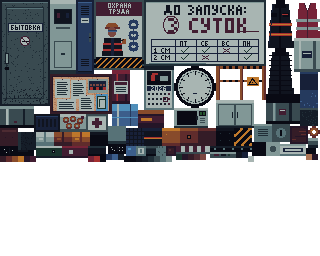
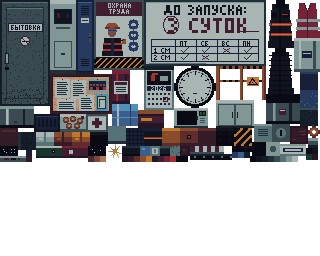
Общага и бытовка: «График дежурств» и номер 214 читаются с места, у роботов по мешу на звено и искры сварки

Changed region(s): [[0.2812, 0.5625, 1.0, 0.6562], [0.0, 0.5625, 0.125, 0.6562]]

diff --git a/src/game/world3d/rooms/dorm.gen.ts b/src/game/world3d/rooms/dorm.gen.ts
@@ -1,6 +1,6 @@
 // Сгенерировано tools/art/room_dorm.py — не править руками.
 // Раскладка атласа (x, y, w, h в текселях) и места вещей, по которым запечены тени.
 
-export const ATLAS = {"w": 320, "h": 256, "rects": {"door_d": [1, 1, 48, 104], "wardrobe": [51, 1, 44, 82], "wardrobe_side": [97, 1, 24, 82], "rug": [123, 1, 84, 64], "books": [209, 1, 40, 64], "guitar": [251, 1, 22, 64], "curtain": [275, 1, 16, 64], "poster_band": [123, 67, 42, 60], "schedule": [167, 67, 44, 58], "gaming": [213, 67, 32, 56], "coat": [293, 1, 26, 50], "parka": [247, 67, 28, 48], "tulle": [293, 53, 24, 48], "calendar_d": [51, 85, 28, 44], "fridge": [81, 85, 26, 44], "tv": [247, 117, 64, 40], "clock": [1, 107, 40, 40], "hoodie": [213, 125, 24, 40], "suitcase": [167, 127, 24, 36], "suitcase_side": [109, 85, 12, 36], "mirror": [109, 129, 20, 26], "towel": [193, 127, 14, 26], "scarf_end": [131, 129, 10, 26], "mattress": [43, 131, 32, 24], "kettle_side": [1, 149, 32, 24], "plaid": [77, 131, 24, 24], "gaming_seat": [35, 157, 24, 24], "sugar": [143, 129, 16, 24], "sugar_side": [143, 155, 8, 24], "radiator": [61, 157, 40, 22], "dishes": [239, 159, 48, 20], "console_top": [103, 157, 28, 20], "chelnok": [289, 159, 24, 20], "kbox": [153, 165, 20, 20], "kbox_side": [175, 165, 20, 20], "sink_top": [197, 167, 24, 18], "scarf": [1, 183, 100, 16], "socks": [103, 181, 44, 16], "bag": [223, 181, 32, 16], "speaker": [257, 181, 28, 16], "laptop_scr": [287, 181, 24, 16], "laptop_lid": [149, 187, 24, 16], "laptop_kb": [175, 187, 24, 16], "blanket": [103, 199, 24, 16], "kbox_top": [201, 187, 20, 16], "fridge_side": [129, 199, 16, 16], "fridge_top": [223, 199, 16, 16], "wood_l": [241, 199, 16, 16], "wood_d": [259, 199, 16, 16], "sheet": [277, 199, 16, 16], "laminate": [295, 199, 16, 16], "stool_top": [1, 201, 16, 16], "chair_seat": [19, 201, 16, 16], "kettle_top": [37, 201, 16, 16], "noodle_top": [55, 201, 16, 16], "cactus": [73, 201, 12, 16], "chelnok_top": [147, 205, 24, 14], "bag_top": [173, 205, 32, 12], "noodle_side": [87, 217, 32, 12], "abajur": [207, 217, 32, 12], "chair_back": [121, 217, 24, 12], "pad_top": [241, 217, 24, 12], "bucket": [267, 217, 20, 12], "pillow": [289, 217, 20, 12], "pillow_bare": [1, 219, 20, 12], "noodle_lid": [23, 219, 12, 12], "sink_front": [37, 219, 24, 10], "mug_a": [173, 219, 24, 10], "mug_b": [147, 221, 24, 10], "sneakers": [37, 231, 24, 8], "blanket_side": [63, 231, 24, 8], "num214": [89, 231, 16, 8], "sugar_top": [107, 231, 16, 8], "pot_s": [125, 231, 12, 8], "chrome": [311, 217, 8, 8], "wframe": [311, 227, 8, 8], "sill": [173, 231, 8, 8], "jamb": [183, 231, 8, 8], "switch": [193, 231, 8, 8], "socket": [203, 231, 8, 8], "bedmetal": [213, 231, 8, 8], "tea_top": [223, 231, 8, 8], "teabag": [233, 231, 8, 8], "mattress_side": [243, 231, 32, 6], "console": [277, 231, 28, 6], "hooks": [243, 239, 40, 4], "tedge": [1, 233, 32, 4], "kettle_base": [139, 233, 32, 4], "clock_rim": [307, 237, 8, 4], "c0": [1, 239, 4, 4], "c1": [7, 239, 4, 4], "c2": [13, 239, 4, 4], "c3": [19, 239, 4, 4], "c4": [25, 239, 4, 4], "c5": [31, 239, 4, 4], "c8": [139, 239, 4, 4], "c12": [145, 239, 4, 4], "c13": [151, 239, 4, 4], "c14": [157, 239, 4, 4], "c15": [163, 239, 4, 4], "c16": [285, 239, 4, 4], "c17": [291, 239, 4, 4], "c18": [297, 239, 4, 4], "c19": [37, 241, 4, 4], "c20": [43, 241, 4, 4], "c21": [49, 241, 4, 4], "c22": [55, 241, 4, 4], "c23": [61, 241, 4, 4], "c25": [67, 241, 4, 4], "c26": [73, 241, 4, 4], "c27": [79, 241, 4, 4], "c36": [85, 241, 4, 4], "c37": [91, 241, 4, 4], "c38": [97, 241, 4, 4], "c39": [103, 241, 4, 4], "c40": [109, 241, 4, 4], "c41": [115, 241, 4, 4], "c42": [121, 241, 4, 4], "c43": [127, 241, 4, 4], "c44": [133, 241, 4, 4], "c45": [169, 241, 4, 4]}} as const
+export const ATLAS = {"w": 320, "h": 288, "rects": {"door_d": [1, 1, 48, 104], "schedule": [51, 1, 72, 92], "wardrobe": [125, 1, 44, 82], "wardrobe_side": [171, 1, 24, 82], "rug": [197, 1, 84, 64], "books": [197, 67, 40, 64], "guitar": [283, 1, 22, 64], "curtain": [239, 67, 16, 64], "poster_band": [257, 67, 42, 60], "gaming": [125, 85, 32, 56], "coat": [159, 85, 26, 50], "parka": [51, 95, 28, 48], "tulle": [81, 95, 24, 48], "calendar_d": [1, 107, 28, 44], "fridge": [257, 129, 26, 44], "tv": [187, 133, 64, 40], "clock": [107, 143, 40, 40], "hoodie": [285, 129, 24, 40], "suitcase": [159, 137, 24, 36], "suitcase_side": [31, 107, 12, 36], "mirror": [31, 145, 20, 26], "towel": [53, 145, 14, 26], "scarf_end": [69, 145, 10, 26], "mattress": [285, 171, 32, 24], "kettle_side": [1, 173, 32, 24], "plaid": [81, 145, 24, 24], "gaming_seat": [81, 171, 24, 24], "sugar": [35, 173, 16, 24], "sugar_side": [149, 143, 8, 24], "radiator": [149, 175, 40, 22], "dishes": [191, 175, 48, 20], "console_top": [241, 175, 28, 20], "chelnok": [53, 173, 24, 20], "kbox": [107, 185, 20, 20], "kbox_side": [53, 195, 20, 20], "sink_top": [75, 197, 24, 18], "scarf": [191, 197, 100, 16], "socks": [1, 199, 44, 16], "bag": [129, 199, 32, 16], "speaker": [163, 215, 28, 16], "laptop_scr": [293, 197, 24, 16], "laptop_lid": [101, 207, 24, 16], "laptop_kb": [193, 215, 24, 16], "blanket": [219, 215, 24, 16], "kbox_top": [245, 215, 20, 16], "fridge_side": [267, 215, 16, 16], "fridge_top": [285, 215, 16, 16], "wood_l": [303, 215, 16, 16], "wood_d": [1, 217, 16, 16], "sheet": [19, 217, 16, 16], "laminate": [37, 217, 16, 16], "stool_top": [55, 217, 16, 16], "chair_seat": [73, 217, 16, 16], "kettle_top": [127, 217, 16, 16], "noodle_top": [145, 217, 16, 16], "cactus": [91, 225, 12, 16], "num214": [163, 233, 26, 14], "chelnok_top": [191, 233, 24, 14], "bag_top": [217, 233, 32, 12], "noodle_side": [251, 233, 32, 12], "abajur": [285, 233, 32, 12], "chair_back": [1, 235, 24, 12], "pad_top": [27, 235, 24, 12], "bucket": [105, 225, 20, 12], "pillow": [53, 235, 20, 12], "pillow_bare": [127, 235, 20, 12], "noodle_lid": [75, 235, 12, 12], "sink_front": [89, 243, 24, 10], "mug_a": [217, 247, 24, 10], "mug_b": [243, 247, 24, 10], "sneakers": [269, 247, 24, 8], "blanket_side": [295, 247, 24, 8], "sugar_top": [1, 249, 16, 8], "pot_s": [149, 235, 12, 8], "chrome": [115, 239, 8, 8], "wframe": [149, 245, 8, 8], "sill": [19, 249, 8, 8], "jamb": [29, 249, 8, 8], "switch": [39, 249, 8, 8], "socket": [49, 249, 8, 8], "bedmetal": [59, 249, 8, 8], "tea_top": [69, 249, 8, 8], "teabag": [79, 249, 8, 8], "mattress_side": [115, 249, 32, 6], "console": [159, 249, 28, 6], "hooks": [89, 257, 40, 4], "tedge": [131, 257, 32, 4], "kettle_base": [165, 257, 32, 4], "clock_rim": [199, 249, 8, 4], "c0": [209, 249, 4, 4], "c1": [199, 255, 4, 4], "c2": [205, 255, 4, 4], "c3": [211, 255, 4, 4], "c4": [269, 257, 4, 4], "c5": [275, 257, 4, 4], "c8": [281, 257, 4, 4], "c12": [287, 257, 4, 4], "c13": [293, 257, 4, 4], "c14": [299, 257, 4, 4], "c15": [305, 257, 4, 4], "c16": [311, 257, 4, 4], "c17": [1, 259, 4, 4], "c18": [7, 259, 4, 4], "c19": [13, 259, 4, 4], "c20": [19, 259, 4, 4], "c21": [25, 259, 4, 4], "c22": [31, 259, 4, 4], "c23": [37, 259, 4, 4], "c25": [43, 259, 4, 4], "c26": [49, 259, 4, 4], "c27": [55, 259, 4, 4], "c36": [61, 259, 4, 4], "c37": [67, 259, 4, 4], "c38": [73, 259, 4, 4], "c39": [79, 259, 4, 4], "c40": [217, 259, 4, 4], "c41": [223, 259, 4, 4], "c42": [229, 259, 4, 4], "c43": [235, 259, 4, 4], "c44": [241, 259, 4, 4], "c45": [247, 259, 4, 4]}} as const
 
 export const PLACE = {"window": [-1.55, -0.45, 0.92, 2.3], "radiator": [-1.38, -0.62, 0.22, 0.72], "fridge": [-2.3, -1.78, 0.84, 0.56], "shelfTV": [-2.32, -1.76, 1.74], "wardrobe": [1.2, 2.3, 2.05, 0.58], "poster": [0.68, 1.76], "bedL": [-3.17, -2.37, -2.64, -0.76], "bedR": [2.37, 3.17, -2.64, -0.76], "rug": [-2.58, -0.9, 0.98, 2.22], "guitar": [-3.0, -0.04], "hooks": [0.28, 1.02, 1.74], "door": [1.32, 2.2, 2.05], "calendar": [-2.45, 1.55], "shelf": [0.05, 0.83, 1.28, 0.3], "sink": [1.5, 0.84], "dishes": [2.3, 1.62], "lamp": [0.0, -0.45], "kettle": [0.47, -0.76], "noodles": [-0.49, -0.77], "pad": [-0.7, -0.38, 0.5], "mug1": [0.72, -0.4], "mug2": [-1.32, -0.14], "sugar": [0.86, -0.58, 0.3], "teabags": [0.66, -0.2], "suitcase": [2.08, -1.9], "garland": [-1.78, -0.22, 2.36], "view": {"near": [-2.8, -0.2, 0.3, 3.3, -4.3], "far": [-3.9, -0.3, 0.0, 4.1, -6.4], "beacon": [-2.3, 1.74, -6.38]}, "lampY": 2.34} as const

diff --git a/src/game/world3d/rooms/bytovka.gen.ts b/src/game/world3d/rooms/bytovka.gen.ts
@@ -1,6 +1,6 @@
 // Сгенерировано tools/art/room_bytovka.py — не править руками.
 // Раскладка атласа (x, y, w, h в текселях) и места вещей, по которым запечены тени.
 
-export const ATLAS = {"w": 320, "h": 256, "rects": {"door_m": [1, 1, 48, 104], "cooler": [51, 1, 24, 72], "locker": [77, 1, 16, 72], "poster_ot": [95, 1, 48, 68], "board": [145, 1, 120, 64], "spets": [267, 1, 26, 46], "vatnik": [267, 49, 26, 44], "calendar_b": [145, 67, 28, 42], "clock": [175, 67, 40, 40], "stand": [51, 75, 60, 38], "vest": [295, 1, 24, 36], "fence": [217, 67, 48, 32], "tank": [295, 39, 24, 32], "ext": [113, 71, 16, 32], "thermos": [267, 95, 32, 28], "counter": [217, 101, 36, 26], "kettle_s": [1, 107, 32, 20], "bottle": [113, 105, 24, 20], "mw": [175, 109, 32, 18], "coffee_jar": [139, 111, 24, 16], "crate": [35, 115, 24, 16], "sushki": [61, 115, 24, 16], "aptechka": [87, 115, 20, 16], "locker_side": [301, 73, 16, 16], "locker_top": [301, 91, 16, 16], "counter_top": [301, 109, 16, 16], "mw_side": [255, 125, 16, 16], "kettle_s_top": [273, 125, 16, 16], "cooler_side": [109, 127, 16, 16], "ply": [291, 127, 16, 16], "derm": [1, 129, 16, 16], "crate_top": [127, 129, 16, 16], "folded": [145, 129, 16, 16], "rob": [163, 129, 16, 16], "rob_side": [181, 129, 16, 16], "rob_dark": [199, 129, 16, 16], "rob_joint": [217, 129, 16, 16], "hazard": [235, 129, 16, 16], "column": [19, 133, 16, 16], "hat_w": [37, 133, 16, 12], "hat_o": [55, 133, 16, 12], "hat_y": [73, 133, 16, 12], "bin": [91, 133, 16, 12], "thermos_top": [253, 143, 12, 12], "tank_top": [267, 143, 12, 12], "mug_v": [281, 145, 24, 10], "mug_g": [37, 147, 24, 10], "mug_r": [63, 147, 24, 10], "sushka": [309, 127, 10, 10], "dom_top": [109, 145, 16, 8], "dom_top2": [1, 147, 16, 8], "rail": [89, 147, 16, 8], "chrome": [309, 139, 8, 8], "water_top": [127, 147, 8, 8], "switch": [137, 147, 8, 8], "alu": [147, 147, 8, 8], "plaster": [157, 147, 8, 8], "coffee_top": [167, 147, 8, 8], "oil_edge": [177, 147, 32, 6], "hooks": [211, 147, 40, 4], "tray": [211, 153, 24, 4], "clock_rim": [307, 149, 8, 4], "dom_side": [19, 151, 8, 4], "c0": [29, 151, 4, 4], "c1": [237, 153, 4, 4], "c2": [243, 153, 4, 4], "c3": [107, 155, 4, 4], "c4": [113, 155, 4, 4], "c7": [119, 155, 4, 4], "c8": [177, 155, 4, 4], "c12": [183, 155, 4, 4], "c13": [189, 155, 4, 4], "c14": [195, 155, 4, 4], "c15": [201, 155, 4, 4], "c16": [307, 155, 4, 4], "c19": [313, 155, 4, 4], "c20": [1, 157, 4, 4], "c21": [7, 157, 4, 4], "c22": [13, 157, 4, 4], "c23": [19, 157, 4, 4], "c26": [25, 157, 4, 4], "c27": [31, 157, 4, 4], "c28": [89, 157, 4, 4], "c29": [95, 157, 4, 4], "c36": [101, 157, 4, 4], "c37": [125, 157, 4, 4], "c38": [131, 157, 4, 4], "c39": [137, 157, 4, 4], "c40": [143, 157, 4, 4], "c41": [149, 157, 4, 4], "c42": [155, 157, 4, 4], "c43": [161, 157, 4, 4], "c44": [167, 157, 4, 4], "c45": [249, 157, 4, 4]}} as const
+export const ATLAS = {"w": 320, "h": 256, "rects": {"door_m": [1, 1, 48, 104], "cooler": [51, 1, 24, 72], "locker": [77, 1, 16, 72], "poster_ot": [95, 1, 48, 68], "board": [145, 1, 120, 64], "spets": [267, 1, 26, 46], "vatnik": [267, 49, 26, 44], "calendar_b": [145, 67, 28, 42], "clock": [175, 67, 40, 40], "stand": [51, 75, 60, 38], "vest": [295, 1, 24, 36], "fence": [217, 67, 48, 32], "tank": [295, 39, 24, 32], "ext": [113, 71, 16, 32], "thermos": [267, 95, 32, 28], "counter": [217, 101, 36, 26], "kettle_s": [1, 107, 32, 20], "bottle": [113, 105, 24, 20], "mw": [175, 109, 32, 18], "coffee_jar": [139, 111, 24, 16], "crate": [35, 115, 24, 16], "sushki": [61, 115, 24, 16], "aptechka": [87, 115, 20, 16], "locker_side": [301, 73, 16, 16], "locker_top": [301, 91, 16, 16], "counter_top": [301, 109, 16, 16], "mw_side": [255, 125, 16, 16], "kettle_s_top": [273, 125, 16, 16], "cooler_side": [109, 127, 16, 16], "ply": [291, 127, 16, 16], "derm": [1, 129, 16, 16], "crate_top": [127, 129, 16, 16], "folded": [145, 129, 16, 16], "rob": [163, 129, 16, 16], "rob_side": [181, 129, 16, 16], "rob_dark": [199, 129, 16, 16], "rob_joint": [217, 129, 16, 16], "hazard": [235, 129, 16, 16], "column": [19, 133, 16, 16], "hat_w": [37, 133, 16, 12], "hat_o": [55, 133, 16, 12], "hat_y": [73, 133, 16, 12], "bin": [91, 133, 16, 12], "thermos_top": [253, 143, 12, 12], "tank_top": [267, 143, 12, 12], "spark": [109, 145, 12, 12], "mug_v": [281, 145, 24, 10], "mug_g": [37, 147, 24, 10], "mug_r": [63, 147, 24, 10], "sushka": [309, 127, 10, 10], "dom_top": [1, 147, 16, 8], "dom_top2": [89, 147, 16, 8], "rail": [123, 147, 16, 8], "chrome": [309, 139, 8, 8], "water_top": [141, 147, 8, 8], "switch": [151, 147, 8, 8], "alu": [161, 147, 8, 8], "plaster": [171, 147, 8, 8], "coffee_top": [181, 147, 8, 8], "oil_edge": [191, 147, 32, 6], "hooks": [191, 155, 40, 4], "tray": [1, 157, 24, 4], "clock_rim": [233, 147, 8, 4], "dom_side": [243, 147, 8, 4], "c0": [307, 149, 4, 4], "c1": [313, 149, 4, 4], "c2": [27, 151, 4, 4], "c3": [233, 153, 4, 4], "c4": [239, 153, 4, 4], "c7": [245, 153, 4, 4], "c8": [307, 155, 4, 4], "c12": [313, 155, 4, 4], "c13": [27, 157, 4, 4], "c14": [89, 157, 4, 4], "c15": [95, 157, 4, 4], "c16": [101, 157, 4, 4], "c19": [123, 157, 4, 4], "c20": [129, 157, 4, 4], "c21": [135, 157, 4, 4], "c22": [141, 157, 4, 4], "c23": [147, 157, 4, 4], "c26": [153, 157, 4, 4], "c27": [159, 157, 4, 4], "c28": [165, 157, 4, 4], "c29": [171, 157, 4, 4], "c36": [177, 157, 4, 4], "c37": [183, 157, 4, 4], "c38": [251, 157, 4, 4], "c39": [257, 157, 4, 4], "c40": [263, 157, 4, 4], "c41": [269, 157, 4, 4], "c42": [275, 157, 4, 4], "c43": [281, 157, 4, 4], "c44": [287, 157, 4, 4], "c45": [293, 157, 4, 4]}} as const
 
 export const PLACE = {"window": [-2.75, -0.3, 0.9, 2.5], "board": [0.4, 1.9, 1.34, 2.14], "lockers": [-2.62, -0.72, 1.8, 0.5], "counter": [-2.62, -1.5, 0.86, 0.56], "poster": [-0.62, 1.55], "hooks": [0.05, 0.85, 1.75], "door": [1.2, 2.1, 2.05], "extinguisher": [-2.98, 0.95], "stand": [0.25, 1.45, 1.1, 1.85], "aptechka": [2.3, 1.55], "cooler": [1.62, 1.22], "calendar": [-2.2, 1.6], "lamps": [[-1.3, -1.35], [1.3, -1.35], [-1.3, 0.85], [1.3, 0.85]], "thermos": [0.47, -0.76], "domino": [-0.72, -0.36], "bazaar": [-1.2, -0.06], "sushki": [0.74, -0.4], "mugs": [[-0.48, -0.78], [0.84, -0.18], [-1.22, -0.36], [1.18, -0.56]], "hats": [[-1.36, -0.74, 0.3, "hat_w"], [1.37, -0.3, -0.5, "hat_o"], [1.3, -0.8, 1.2, "hat_w"]], "robots": [[-3.4, -7.4, 0.25], [-1.75, -6.2, 2.9]], "hall": {"wall": [-11.5, -0.5, -0.5, 6.5, -13.5], "racks": [-10.4, -5.6, 0.0, 4.6, -11.2], "banner": [-7.9, -4.6, 3.2, 3.85, -9.4], "crane": [-11.0, 0.5, 4.1, -10.0], "pallets": [-2.0, -0.85, 0.0, 1.9, -9.0], "fence": [-5.6, -0.2, 0.0, 1.35, -5.3], "column": [-5.7, -6.6], "conveyor": [-9.0, 1.0, 2.35, -6.6]}} as const

diff --git a/src/game/world3d/rooms/bytovka.ts b/src/game/world3d/rooms/bytovka.ts
@@ -89,8 +89,11 @@ function buildBytovka(): RoomBuild {
 
   // роботы: пьедестал в супе, звенья — на осях (поворот, плечо, локоть)
   const maps = [0, 1, 2].map((k) => kit.mat(kit.tex(`bytovka_atlas${k}`), true))
+  /** движущаяся часть: свой суп, один вариант света (объём — текстурами граней), один меш */
   const part = (fill: (s: Soup) => void) => {
     const s = new Soup(ATLAS.w, ATLAS.h, rects)
+    const add = s.add.bind(s)
+    s.add = (geo, m, faces) => add(geo, m, faces, 0)
     fill(s)
     const o = new Object3D()
     for (const m of s.build(kit, maps)) o.add(m)
@@ -126,8 +129,12 @@ function buildBytovka(): RoomBuild {
     })
     elbow.position.set(0, 1.55, 0)
     shoulder.add(elbow)
+    // сварка: искры на кончике инструмента вспыхивают сериями
+    const spark = part((s) => s.add(new PlaneGeometry(0.34, 0.34), at(1.9, -0.1, 0.2), 'spark'))
+    spark.visible = false
+    elbow.add(spark)
     g.add(swivel)
-    return { swivel, shoulder, elbow, ry }
+    return { swivel, shoulder, elbow, spark, ry }
   })
 
   // подвесной конвейер: баки водонагревателей едут вправо
@@ -353,6 +360,8 @@ function buildBytovka(): RoomBuild {
       r.swivel.rotation.y = r.ry + 0.55 * Math.sin(t * 0.21 + k)
       r.shoulder.rotation.z = -0.35 + 0.22 * Math.sin(t * 0.33 + k)
       r.elbow.rotation.z = -0.55 + 0.32 * Math.sin(t * 0.27 + k + 1.3)
+      const w = (t + i * 3.7) % 7
+      r.spark.visible = w < 2.2 && Math.sin(t * 31 + i) > 0
     })
     tanks.position.x = (t * 0.14) % STEP
     // старая трубка раз в ~9 с коротко моргает, комната на миг тускнеет

diff --git a/src/game/world3d/rooms/dorm.ts b/src/game/world3d/rooms/dorm.ts
@@ -230,8 +230,8 @@ function buildDorm(): RoomBuild {
   box(dz1 - dz0, dh, 0.05, F('door_d', 'c41'), -HW + 0.025, 0, dm, PI / 2)
   box(dz1 - dz0 + 0.16, 0.07, 0.025, 'c43', -HW + 0.013, dh, dm, PI / 2)
   for (const zz of [dz0 - 0.04, dz1 + 0.04]) box(0.07, dh, 0.025, 'c43', -HW + 0.013, 0, zz, PI / 2)
-  art(0.16, 0.08, 'num214', -HW + 0.052, 1.8, dm, PI / 2)
-  art(0.44, 0.58, 'schedule', -HW + 0.053, 1.36, dm + 0.04, PI / 2)
+  art(0.2, 0.11, 'num214', -HW + 0.052, 1.86, dm, PI / 2)
+  art(0.6, 0.77, 'schedule', -HW + 0.053, 1.3, dm + 0.03, PI / 2)
   art(0.08, 0.08, 'switch', -HW + 0.003, 1.35, dz0 - 0.2, PI / 2, 1)
 
   // ------------------------------------------------------------------ правая стена: этажерка, умывальник, зеркало

diff --git a/tools/art/room_dorm.py b/tools/art/room_dorm.py
@@ -437,26 +437,28 @@ def items(at):
     t.rect(4, 74, 5, 76, 38)
     t.noise(0, 90, 47, 103, 40, 0.06)  # следы ног внизу
     at.add('door_d', t)
-    t = Tex(16, 8, 22)  # номер на латунной табличке
-    t.frame(0, 0, 15, 7, 20)
-    t.text(2, 1, '214', 18)
+    t = Tex(26, 14, 22)  # номер на латунной табличке
+    t.frame(0, 0, 25, 13, 20)
+    t.rect(1, 1, 24, 1, 23)
+    t.text(2, 2, '214', 18, 2)
     at.add('num214', t)
     # «ГРАФИК ДЕЖУРСТВ» на половине ватмана: таблица пустая
-    t = Tex(44, 58, 45)
-    t.frame(0, 0, 43, 57, 43)
-    t.text(22 - text_w('ГРАФИК') // 2, 3, 'ГРАФИК', 27)
-    t.text(22 - text_w('ДЕЖУРСТВ') // 2, 10, 'ДЕЖУРСТВ', 27)
-    t.frame(3, 18, 40, 54, 1)
-    for y in range(24, 54, 6):
-        t.rect(3, y, 40, y, 2)
-    t.rect(14, 18, 14, 54, 1)
-    t.rect(27, 18, 27, 54, 2)
-    for i, d in enumerate(('П', 'В', 'С', 'Ч', 'П')):
-        t.text(6, 25 + i * 6, d, 2)
-    t.rect(16, 20, 25, 20, 2)
-    t.rect(29, 20, 37, 20, 2)
-    t.rect(0, 0, 4, 1, 17)  # скотч
-    t.rect(39, 0, 43, 1, 17)
+    t = Tex(72, 92, 45)
+    t.frame(0, 0, 71, 91, 43)
+    t.text(36 - text_w('ГРАФИК', 2) // 2, 3, 'ГРАФИК', 27, 2)
+    t.text(36 - text_w('ДЕЖУРСТВ', 2) // 2, 16, 'ДЕЖУРСТВ', 27, 2)
+    t.frame(4, 30, 67, 87, 1)
+    t.frame(5, 31, 66, 86, 1)
+    for y in range(38, 87, 7):
+        t.rect(4, y, 67, y, 2)
+    t.rect(19, 30, 20, 87, 1)
+    t.rect(43, 30, 44, 87, 2)
+    for i, d in enumerate(('ПН', 'ВТ', 'СР', 'ЧТ', 'ПТ', 'СБ', 'ВС')):
+        t.text(7, 39 + i * 7, d, 2)
+    t.rect(22, 33, 39, 34, 1)  # «ТИМУР» — зачёркнуто
+    t.line([(21, 36), (40, 32)], 27)
+    t.rect(0, 0, 6, 2, 17)  # скотч
+    t.rect(65, 0, 71, 2, 17)
     at.add('schedule', t)
     t = Tex(8, 8, 45)
     t.frame(0, 0, 7, 7, 43)
@@ -1256,7 +1258,7 @@ def shadows_seats():
 
 
 def main():
-    at = items(Atlas(320, 256))
+    at = items(Atlas(320, 288))
     P = dict(PLACE)
     surfaces = {}
     for side, t in dorm_walls(P).items():

diff --git a/tools/art/room_bytovka.py b/tools/art/room_bytovka.py
@@ -524,6 +524,13 @@ def items(at):
     t.poly([(35.5, 13), (38, 16), (33, 16)], 23)
     t.px(35, 15, 37)
     at.add('fence', t)
+    t = Tex(12, 12, T)  # искры сварки
+    t.ellipse(6, 6, 2.5, 2.5, 5)
+    t.ellipse(6, 6, 1.5, 1.5, 45)
+    for (x, y) in ((1, 2), (10, 1), (11, 8), (2, 10), (6, 0), (0, 6), (9, 11), (4, 11)):
+        t.line([(6, 6), (x, y)], 23)
+        t.px(x, y, 45)
+    at.add('spark', t)
     t = Tex(16, 16, 40)  # колонна: бетон, внизу разметка
     t.noise(0, 0, 15, 15, 39, 0.1)
     t.rect(0, 0, 1, 15, 41)
